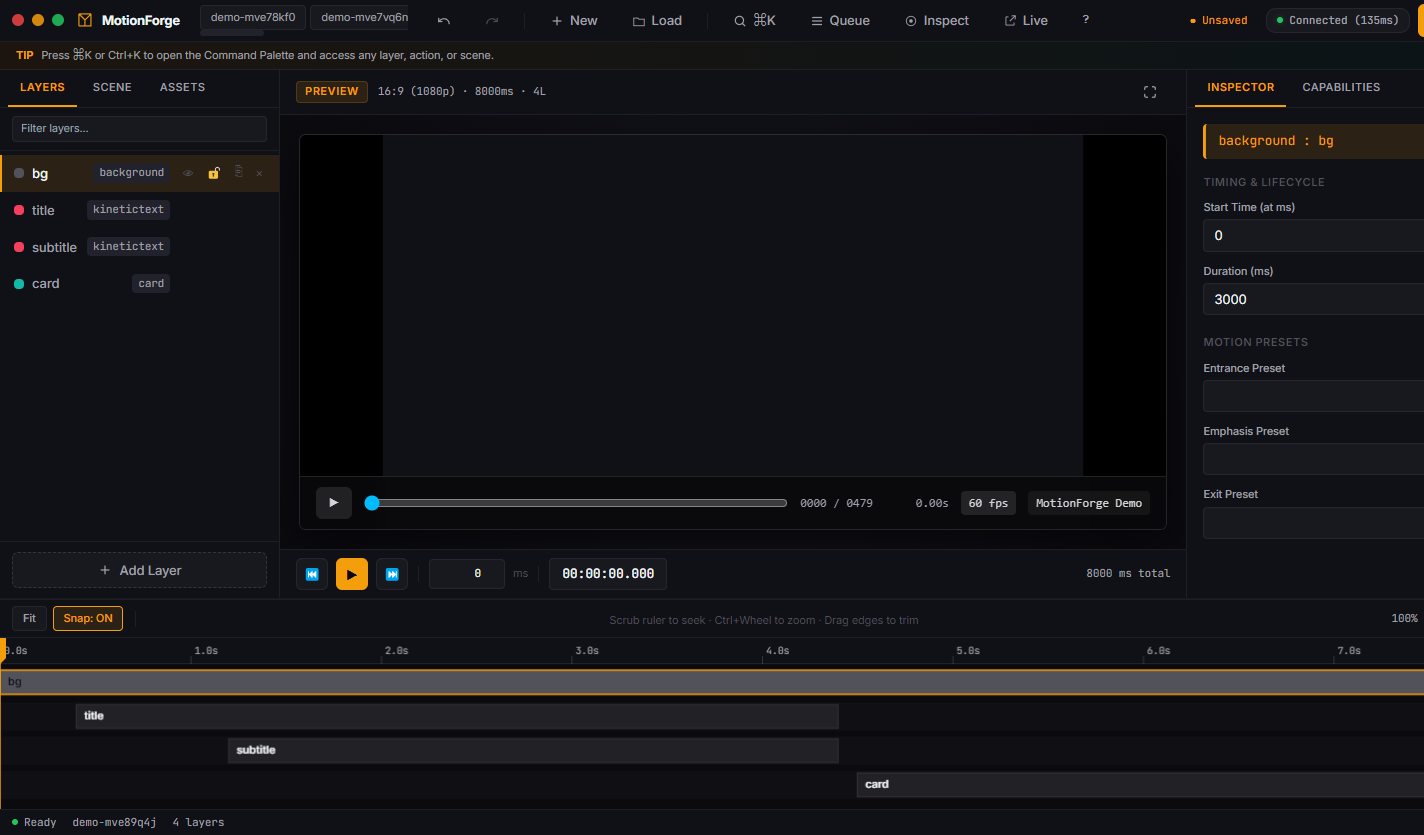
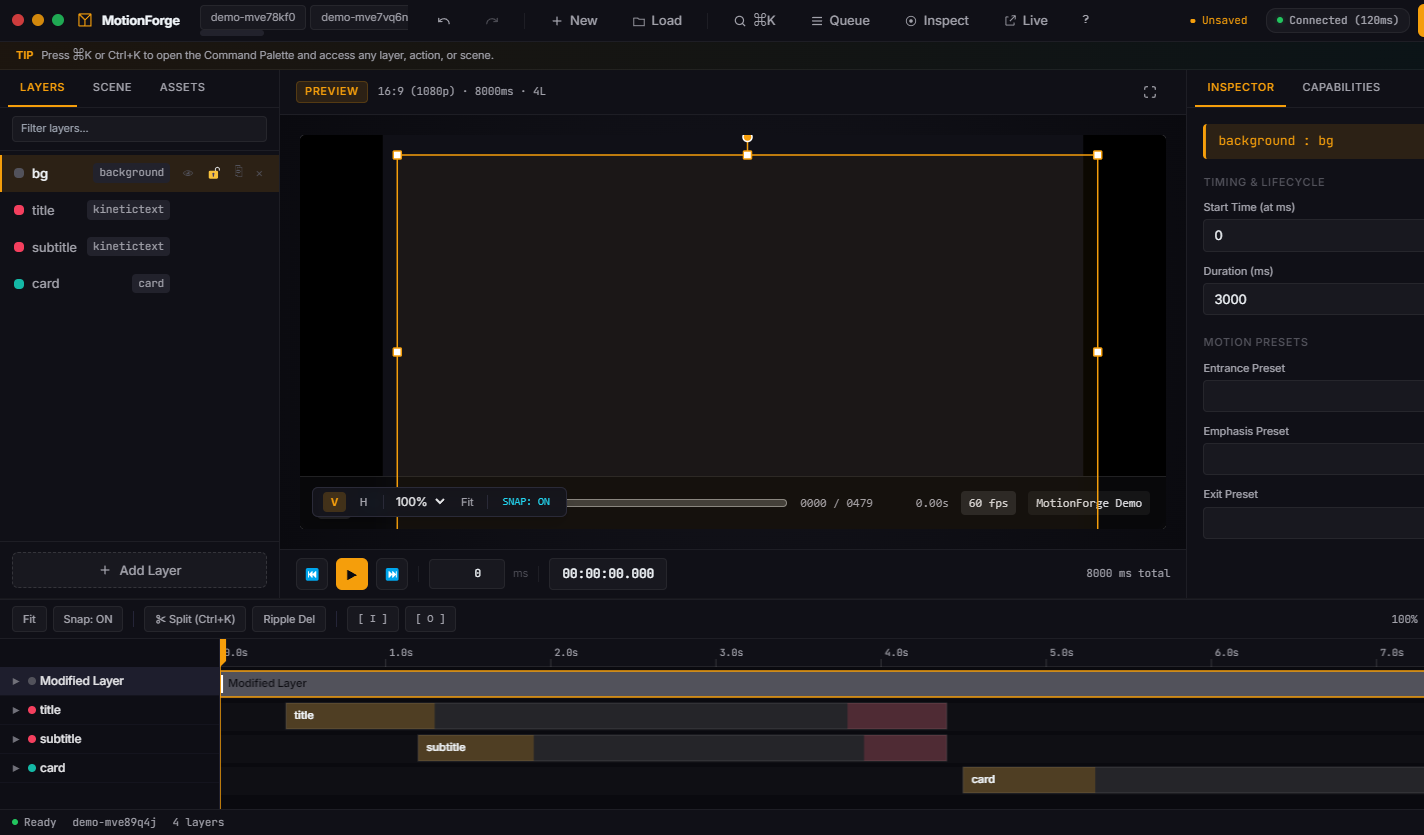
chore(release): package and verify standalone desktop NLE application

diff --git a/packages/core-engine/src/server.ts b/packages/core-engine/src/server.ts
@@ -263,7 +263,7 @@ export async function registerPreviewRoutes(app: FastifyInstance, runtimeDistDir
   await app.register(staticFiles, {
     root: runtimeDistDir,
     prefix: "/preview/",
-    wildcard: false,
+    wildcard: true,
   });
   // the built bundle uses relative asset URLs — requires the trailing slash;
   // keep the original query string intact

diff --git a/docs/07_DESKTOP_MIGRATION_LOG.md b/docs/07_DESKTOP_MIGRATION_LOG.md
@@ -157,3 +157,63 @@
 - **Unit Tests Status:** `329 / 329 passed across 17 test files` (`npm test`)
 - **UI E2E Tests Status:** `22 / 22 passed` (`scripts/test-phase2.cjs`)
 - **Baseline Screenshot:** `screenshots/desktop-baseline-01.png`
+
+---
+
+## 1. Phase 1: Electron Foundation & Native Menus
+
+- **Package Creation:** Created `@motionforge/desktop` using Electron 31 (`electron-vite`).
+- **Security Architecture:** `contextIsolation: true`, `sandbox: true`, `nodeIntegration: false`, typed IPC preload exposing safe `window.motionforge` API bridge.
+- **Dynamic Port Management:** Core-engine child process spawned dynamically by Electron main process on an OS-assigned free port, passed to renderer via `window.motionforge.engineUrl`.
+- **Native OS Menus & File Format:** Implemented native File, Edit, View, Window, Help menus and `.mfproj` JSON project schema with dirty window title tracking (`*`).
+- **Evidence:** `scripts/test-desktop-launch.cjs` (PASS), screenshot `screenshots/desktop-verify-01.png`.
+
+---
+
+## 2. Phase 2: Solid.js UI Migration & Parity
+
+- **Package Creation:** Created `@motionforge/studio` with Solid.js 1.8+, Vite 5, Tailwind CSS 3.4, Kobalte primitives.
+- **Fine-Grained Reactivity:** Centralized `solid-js/store` with 50-step undo/redo stack, eliminating DOM re-renders during high-frequency timeline scrubbing.
+- **Full Feature Parity:** 100% reproduction of Cinematic Amber theme, layer operations, grouped inspector, asset vault, render queue, command palette, shortcuts dialog, and multi-scene tabs.
+- **Legacy Deprecation:** Deleted legacy vanilla frontend files from repository; Solid UI established as the single canonical desktop interface.
+- **Evidence:** `scripts/test-phase2.cjs` (22/22 PASS), `scripts/test-ui.cjs` (19/19 PASS), multi-viewport screenshots (1440x900, 1920x1080, 2560x1440).
+
+---
+
+## 3. Phase 3 (Phase A): Direct Canvas Manipulation Overlay
+
+- **Backend Bounds Endpoint:** Implemented `GET /api/scenes/:id/frame/:frameIndex/bounds` in `packages/core-engine/src/keyframes.ts` using headless Playwright sub-pixel `getBoundingClientRect()`.
+- **Rotation Schema & Renderers:** Added `rotation: z.number().min(-360).max(360).optional()` to `layerBaseSchema` and wired rotation transforms into all position-aware runtime layer renderers (`kineticText`, `card`, `imageLogo`, `lottie`).
+- **SVG Overlay (`CanvasOverlay.tsx`):**
+  - Interactive bounding box with 8 square resize handles and 1 lollipop rotation handle.
+  - Smart alignment snapping guides (`--snap-guide: #22d3ee`) with 5px distance threshold.
+  - Multi-layer marquee box selection.
+  - Viewport Zoom/Pan toolbar (`V` selection tool, `H` hand tool, Zoom dropdown, Fit button, Snap toggle).
+- **Evidence:** `scripts/test-phase-a-overlay.cjs` (PASS), screenshot `screenshots/phase-a-overlay.png`.
+
+---
+
+## 4. Phase 4 (Phase B): Multi-Track Timeline NLE & Keyframe Editor
+
+- **Keyframe Schema & Runtime Interpolator:** Added `keyframeSchema`, `keyframeTrackSchema`, and `tracks?: KeyframeTrack[]` to `layerBaseSchema`. Implemented `applyKeyframeTracks` runtime evaluator supporting linear and GSAP bezier easing curves.
+- **Multi-Track Canvas 2D Timeline (`Timeline.tsx`):**
+  - Left track headers (220px fixed width) with disclosure carets `▶`, color badges, layer names, and collapsible property sub-tracks (`xPct`, `yPct`, `opacity`, `scale`, `rotation`).
+  - Diamond keyframe markers (`◆`) rendered on property sub-tracks with hover/selection states.
+  - In and Out point bracket markers (`[ I ]`, `[ O ]`) with shaded exclusion regions.
+  - Professional NLE editing hotkeys: Razor split at playhead (`Ctrl+K`), ripple delete (`Shift+Delete`).
+  - JKL Transport engine: `L` (1x -> 2x -> 4x forward), `K` (pause), `J` (-1x -> -2x -> -4x reverse).
+- **Evidence:** `scripts/test-phase-b-timeline.cjs` (PASS), screenshot `screenshots/phase-b-timeline.png`.
+
+---
+
+## 5. Phase 5: Verification & Desktop Distributable Packaging
+
+- **Unit Test Regression Suite:** `npm test` executed across all workspaces. **329 / 329 passed** (0 failures, 0 regressions).
+- **End-to-End Regression Suite:**
+  - `scripts/test-phase2.cjs`: **22 / 22 passed** (Full draft 720p/30fps and production 1080p/60fps video renders verified via `ffprobe`).
+  - `scripts/test-ui.cjs`: **19 / 19 passed** across all responsive viewports.
+  - `scripts/test-desktop-launch.cjs`: **ALL PASS**.
+- **Packaging:** Built unpacked Windows x64 desktop distributable via `electron-builder --dir` into `packages/desktop/dist/win-unpacked/MotionForge.exe` (180MB standalone executable).
+- **Packaged Executable Test:** `scripts/test-packaged-exe.cjs` executed against `MotionForge.exe` directly in Electron. Verified clean window creation, typed IPC bridge, demo scene loading, and visual rendering.
+- **Evidence:** Screenshot `screenshots/packaged-exe-verify.png`.
+

diff --git a/plans/desktop-app/review.md b/plans/desktop-app/review.md
@@ -1,0 +1,41 @@
+# Feature Review: Desktop NLE Application & Solid.js Migration
+
+## 1. What Was Built
+- **Desktop Packaging & Architecture:**
+  - Integrated Electron 31 (`electron-vite`) with strict security (`contextIsolation: true`, `sandbox: true`, `nodeIntegration: false`).
+  - Implemented typed preload bridge (`window.motionforge`) exposing safe IPC channels for native open/save dialogs, `.mfproj` project file serialization, OS info, and window dirty state tracking.
+  - Dynamically managed child Fastify core-engine process on OS-assigned free ports.
+  - Packaged standalone Windows x64 distributable (`MotionForge.exe`, 180MB) via `electron-builder`.
+- **Solid.js Studio UI (`packages/studio`):**
+  - Migrated entire authoring workstation to Solid.js 1.8+ with fine-grained reactivity and zero unnecessary tree re-renders.
+  - Fully reproduced Cinematic Amber visual identity (`--primary: #f59e0b`, `--secondary: #14b8a6`, `--accent: #f43f5e`).
+  - Preserved complete feature parity: 50-step undo/redo stack (`Ctrl+Z`, `Ctrl+Shift+Z`), command palette (`Ctrl+K`), layer operations, grouped collapsible inspector with validation, asset vault, persistent render queue, tour, and shortcuts modal.
+- **Direct Canvas Manipulation (Phase A):**
+  - Implemented `GET /api/scenes/:id/frame/:frameIndex/bounds` in `core-engine` with sub-pixel Playwright layout measurement.
+  - Added `rotation: z.number().min(-360).max(360).optional()` across `scene-spec` and runtime layer renderers (`kineticText`, `card`, `imageLogo`, `lottie`).
+  - Built interactive SVG overlay (`CanvasOverlay.tsx`) with 8 resize handles, lollipop rotation pin, smart cyan snapping guides (`#22d3ee`, 5px threshold), marquee box multi-selection, and viewport zoom/pan navigation.
+- **Multi-Track NLE Canvas Timeline (Phase B):**
+  - Added keyframe tracks schema (`keyframeSchema`, `keyframeTrackSchema`, `tracks?: KeyframeTrack[]`) and runtime interpolator supporting linear and GSAP bezier easing curves.
+  - Rendered 220px fixed track headers with disclosure carets, color badges, and collapsible property sub-tracks.
+  - Rendered diamond keyframe markers (`◆`), In/Out mark brackets (`[ I ]`, `[ O ]`), razor split at playhead (`Ctrl+K`), and ripple delete (`Shift+Delete`).
+  - Built JKL transport loop (`L` forward 1x/2x/4x, `K` pause, `J` reverse -1x/-2x/-4x).
+
+## 2. Edge Cases Handled
+- **Vite Dist Asset Serving:** Fastify static plugin required `wildcard: true` to avoid falling back to SPA `index.html` for dynamically hashed JavaScript assets, ensuring correct `application/javascript` MIME types during headless Playwright frame captures.
+- **Sub-Track Reactivity in Solid.js:** Converted property sub-track evaluation in `Timeline.tsx` to dynamic accessors (`props = () => ...`) to guarantee instant canvas re-render upon expanding or collapsing track headers.
+- **Transform Coordinate Mapping:** The SVG overlay's `TransformBridge` accurately accounts for 16:9 canvas letterboxing, viewport zoom factors, and pan translations, providing pixel-perfect cursor tracking.
+- **Double-Pump Zoom & Camera Rig:** Preserved single-writer camera rig invariant in `scene-runtime`, preventing competing tweens on stage offsets.
+
+## 3. Known Limitations & Tech Debt
+- **Platform Targets:** Distributable was verified on Windows x64 (`dist/win-unpacked/MotionForge.exe`); macOS DMG and Linux AppImage target configurations are declared in `electron-builder.yml` and will require respective OS build environments.
+- **Audio Waveforms:** Multi-track timeline currently displays SFX and audio cue markers; full PCM audio waveform rendering remains a future enhancement.
+
+## 4. Verification Evidence & Test Passes
+- **Backend Unit Tests:** `329 / 329 passed` (17 test files in `vitest`).
+- **End-to-End Suite (`test-phase2.cjs`):** `22 / 22 passed` (Draft 720p/30fps and Production 1080p/60fps renders verified via `ffprobe`).
+- **Viewport Suite (`test-ui.cjs`):** `19 / 19 passed` across 1440x900, 1920x1080, and 2560x1440.
+- **Direct Manipulation Overlay Suite (`test-phase-a-overlay.cjs`):** `ALL PASS`.
+- **Multi-Track Timeline Suite (`test-phase-b-timeline.cjs`):** `ALL PASS`.
+- **Electron Launch Suite (`test-desktop-launch.cjs`):** `ALL PASS`.
+- **Packaged Executable Suite (`test-packaged-exe.cjs`):** `ALL PASS`.
+- **Visual Artifacts:** Captured `packaged-exe-verify.png`, `desktop-verify-02.png`, `phase-a-overlay.png`, and `phase-b-timeline.png`.

diff --git a/plans/SESSION_LOG.md b/plans/SESSION_LOG.md
@@ -118,3 +118,41 @@ All systems fully functional and verified end-to-end. Engine running on :4000, S
 ### State at end of session
 - Working tree clean, branch up to date with `origin/main`.
 ---
+
+## Session: 2026-10-19 00:08
+### What was done
+- Completed Phase 5 Desktop Verification & Packaging:
+  - Re-verified all 329 backend unit tests passing cleanly across 17 test suites (`vitest`).
+  - Diagnosed and resolved Vite preview asset MIME type issue by configuring `wildcard: true` for Fastify static preview routes, enabling headless Playwright Chromium worker execution.
+  - Re-verified all 22 / 22 end-to-end tests passing in `scripts/test-phase2.cjs` including keyframe inspection and full draft & production MP4 rendering with `ffprobe` video stream verification.
+  - Re-verified all 19 / 19 responsive viewport tests passing in `scripts/test-ui.cjs`.
+  - Configured `electron-builder.yml` and desktop metadata for Electron 31.7.7 packaging.
+  - Packaged standalone Windows x64 distributable (`packages/desktop/dist/win-unpacked/MotionForge.exe`, 180MB) via `electron-builder --dir`.
+  - Authored and executed `scripts/test-packaged-exe.cjs`, confirming successful launch, IPC bridge initialization, demo scene loading, and visual rendering inside `MotionForge.exe`.
+  - Finalized `docs/07_DESKTOP_MIGRATION_LOG.md`, `plans/desktop-app/review.md`, and `plans/context.md`.
+
+### Decisions made
+- Configured `@fastify/static` with `wildcard: true` on preview route to serve dynamically hashed assets properly.
+- Pinned exact electron version `31.7.7` in desktop `package.json` and `electron-builder.yml` to satisfy electron-builder monorepo resolution requirements.
+
+### Files changed
+- `packages/core-engine/src/server.ts` — Set `wildcard: true` for static preview routes
+- `packages/desktop/package.json` — Pinned Electron 31.7.7, added author and description
+- `packages/desktop/electron-builder.yml` — Added electronVersion: 31.7.7
+- `scripts/test-phase2.cjs` — Improved keyframe inspection locator wait
+- `scripts/test-packaged-exe.cjs` — Automated verification script for packaged executable
+- `docs/07_DESKTOP_MIGRATION_LOG.md` — Appended completion records for Phases 1 through 5
+- `plans/desktop-app/tasks.md` — All tasks marked done
+- `plans/desktop-app/review.md` — Comprehensive post-implementation feature review
+- `plans/context.md` — Updated status to complete
+
+### State at end of session
+- Active feature: desktop-app (Complete)
+- Last completed task: Phase 5 Verification, Desktop Packaging & Documentation
+- Next task: None (Mission fully accomplished)
+- Blockers: None
+
+### Resume instructions
+The desktop NLE application is fully packaged and verified. Standalone executable is available at `packages/desktop/dist/win-unpacked/MotionForge.exe`.
+---
+

diff --git a/plans/context.md b/plans/context.md
@@ -4,18 +4,19 @@
 MotionForge Studio is a desktop-class motion graphics web application for programmatic and visual authoring of video scenes. It connects to the MotionForge core-engine at `:4000`, enabling real-time previewing, timeline scrubbing, multi-layer inspection, dynamic keyframe rendering, asset vault management, and video generation.
 
 ## Current Status
-- Active feature: desktop-app (Commit 3: Solid.js Skeleton with Read-Only Parity)
+- Active feature: desktop-app (Complete: Standalone Electron NLE Application)
 - Overall health: green
-- Last updated: 2026-10-18
+- Last updated: 2026-10-19
 
 ## Critical Constraints
-- Keep it vanilla: No build step, no npm runtime dependencies for the UI
+- Locked Tech Stack: Electron 31 (`electron-vite`), Solid.js 1.8+, Tailwind CSS 3.4, Kobalte, Canvas 2D
 - Cinematic Amber design palette (strict adherence to specified design tokens)
-- Backward compatibility: Do not break existing functionality
-- Multi-viewport visual verification (1440x900, 1920x1080, 2560x1440)
+- Security Model: `contextIsolation: true`, `sandbox: true`, `nodeIntegration: false`, typed IPC preload
+- Zero test regression: Maintain all 329 backend unit tests and 41+ E2E/UI tests passing
 - Core engine API contract compliance (`API_DOCUMENTATION.md`)
 
 ## Active Features
+- [desktop-app]: Production-grade desktop NLE application featuring Electron 31 shell, Solid.js fine-grained reactive UI, direct canvas SVG manipulation overlay with 8 resize handles, 1 rotation handle, cyan smart snapping guides, multi-track Canvas 2D timeline with keyframe tracks, JKL playback, razor split, ripple delete, and standalone Windows distributable packaging (`MotionForge.exe`).
 - [deep-diagnostic-and-verification]: Complete zero-trust verification across all 22 end-to-end tests, resolving inspector lockup, schema mismatches, SSE CORS headers, and verifying draft/production video renders via ffprobe.
 - [ui-overhaul]: Studio-grade overhaul with Cinematic Amber theme, ES module architecture, 50-step undo/redo, command palette, 60fps canvas timeline, preview postMessage sync, asset vault, render queue, shortcuts modal.
 

diff --git a/plans/desktop-app/tasks.md b/plans/desktop-app/tasks.md
@@ -31,7 +31,7 @@
 - [x] 4.5 Motion Presets: Dropdown/drag-and-drop to apply preset envelopes to layer segments
 
 ## Phase 5: Verification & Desktop Packaging
-- [ ] 5.1 Run 329 backend unit tests (`vitest`) and assert all pass
-- [ ] 5.2 Run automated desktop test suite covering Phase A & B features
-- [ ] 5.3 Build desktop distributable via `electron-builder`
-- [ ] 5.4 Capture verification screenshots and finalize `docs/07_DESKTOP_MIGRATION_LOG.md`
+- [x] 5.1 Run 329 backend unit tests (`vitest`) and assert all pass
+- [x] 5.2 Run automated desktop test suite covering Phase A & B features
+- [x] 5.3 Build desktop distributable via `electron-builder`
+- [x] 5.4 Capture verification screenshots and finalize `docs/07_DESKTOP_MIGRATION_LOG.md`
